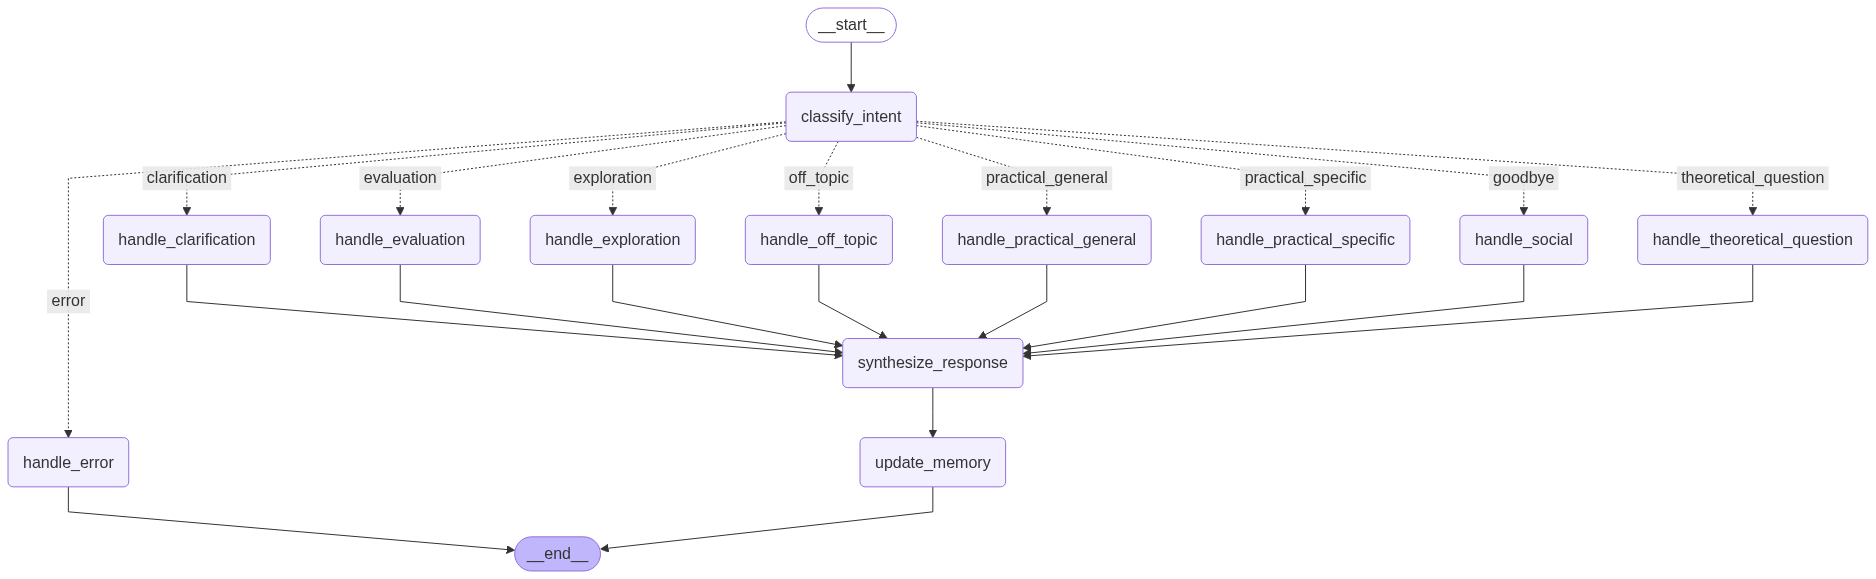
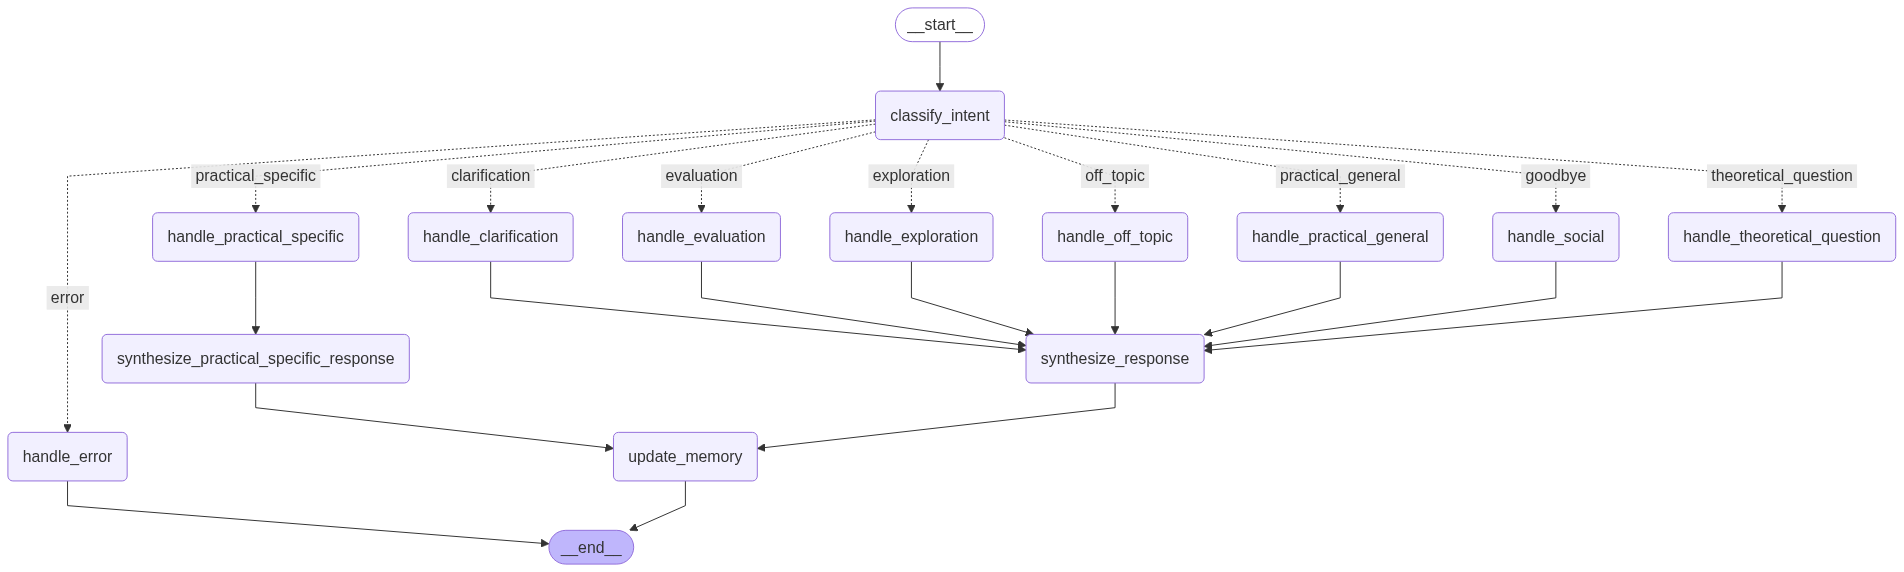
fine tuning

diff --git a/orchestrator/workflow.py b/orchestrator/workflow.py
@@ -71,6 +71,7 @@ class OrchestratorWorkflow:
         
         # Response processing nodes
         workflow.add_node("synthesize_response", self._synthesize_response)
+        workflow.add_node("synthesize_practical_specific_response", self._synthesize_practical_specific_response)
         workflow.add_node("update_memory", self._update_memory)
         workflow.add_node("handle_error", self._handle_error)
         
@@ -95,10 +96,10 @@ class OrchestratorWorkflow:
             }
         )
         
-        # All intent handlers flow to response synthesis
+        # Intent handlers flow to appropriate synthesis (practical_specific gets specialized treatment)
         workflow.add_edge("handle_theoretical_question", "synthesize_response")
         workflow.add_edge("handle_practical_general", "synthesize_response")
-        workflow.add_edge("handle_practical_specific", "synthesize_response")
+        workflow.add_edge("handle_practical_specific", "synthesize_practical_specific_response")
         workflow.add_edge("handle_clarification", "synthesize_response")
         workflow.add_edge("handle_exploration", "synthesize_response")
         workflow.add_edge("handle_evaluation", "synthesize_response")
@@ -107,6 +108,7 @@ class OrchestratorWorkflow:
         
         # Response synthesis flows to memory update and then end
         workflow.add_edge("synthesize_response", "update_memory")
+        workflow.add_edge("synthesize_practical_specific_response", "update_memory")
         workflow.add_edge("update_memory", END)
         workflow.add_edge("handle_error", END)
         
@@ -551,6 +553,123 @@ Sintetiza una respuesta educativa completa.""")
         
         return state
     
+    async def _synthesize_practical_specific_response(self, state: WorkflowState) -> WorkflowState:
+        """
+        Specialized synthesis for practical_specific responses.
+        
+        Creates pedagogical guidance based on gap analysis results, focusing on:
+        - Concrete next steps to unblock the student
+        - Framework-specific guidance (e.g., álgebra relacional vs SQL)
+        - Avoids giving direct answers to exercises
+        - Prioritizes most critical gaps for immediate action
+        """
+        try:
+            logger.info("Synthesizing practical-specific response with pedagogical focus")
+            
+            # Extract gap analysis results from handler response
+            gap_analysis_response = state.agent_responses.get('gap_analyzer', '')
+            
+            # Create specialized synthesis prompt for practical guidance
+            synthesis_prompt = ChatPromptTemplate.from_messages([
+                ("system", """Eres un tutor pedagógico especializado en guiar estudiantes a través de ejercicios prácticos sin dar las respuestas directas, sino orientando al estudiante a partir del análisis de gaps a llegar a la respuesta sin dársela directamente. Específicamente trabajamos sobre prácticas (problemas/ejercicios).
+
+TU MISIÓN:
+- Analizar los gaps identificados en el análisis del ejercicio
+- Proveer orientación pedagógica específica para destrabar al estudiante
+- NUNCA dar la respuesta del ejercicio ni mostrar cómo debería verse
+- Enfocar en el framework/paradigma específico de la práctica
+- Sugerir pasos concretos y específicos para que el estudiante avance por sí mismo
+                 
+ESTILO DE COMUNICACION: Conciso, sos un profesor orientador, usá la variante Argentina del español, no supongas que el estudiante es siempre de género masculino. No hables del "gap" como algo que el alumno deba conocer, mostrale el "gap" sin decirle "tenés un gap", "este es el gap más crítico".
+
+PRINCIPIOS PEDAGÓGICOS:
+1. AUTODESCUBRIMIENTO: Guiar para que el estudiante descubra por sí mismo
+2. FRAMEWORK ESPECÍFICO: Mantener la orientación en el marco conceptual de la práctica
+3. PASOS CONCRETOS: Dar acciones específicas, no conceptos vagos
+
+ESTRUCTURA DE RESPUESTA:
+1. Reconocimiento empático del problema
+2. Identificación del gap específico más crítico (a partir del análisis de gaps provisto)
+3. Orientación metodológica concreta en el framework de la práctica
+4. Pregunta reflexiva para guiar el autodescubrimiento
+5. Sugerir siguiente paso específico a realizar
+
+EJEMPLOS DE ORIENTACIÓN:
+- "En álgebra relacional, empezá por definir exactamente qué conjuntos necesitás..."
+- "Antes de escribir SQL, dibujá qué tablas participan y qué conexión querés lograr..."
+- "Para este tipo de JOIN, preguntate: ¿qué registros quiero que queden afuera?"
+
+EVITAR ABSOLUTAMENTE:
+- Mostrar código SQL o expresiones de álgebra relacional completas
+- Decir "la respuesta es..." o "deberías obtener..."
+- Conceptos generales sin aplicación específica al ejercicio"""),
+                ("human", """CONTEXTO DEL EJERCICIO:
+Estudiante: {student_message}
+Materia: {subject}
+Práctica: {practice} 
+Ejercicio: {exercise_context}
+
+ANÁLISIS DE GAPS IDENTIFICADOS:
+{gap_analysis}
+
+CONTEXTO EDUCATIVO DE LA PRÁCTICA:
+{practice_context}
+
+Crea una respuesta pedagógica que guíe al estudiante a destrabar su situación específica en este ejercicio, enfocándote en el framework conceptual de la práctica y sin dar la respuesta directa.""")
+            ])
+            
+            ctx = state.conversation_context
+            
+            # Extract exercise and practice context from handler responses or conversation context
+            exercise_context = self._extract_exercise_context_from_state(state)
+            practice_context = self._extract_practice_context_from_state(state)
+            
+            # If we have structured gap analysis results, extract them
+            gap_summary = gap_analysis_response
+            if not gap_summary:
+                gap_summary = "No se pudo completar el análisis de gaps. Procederé con orientación general."
+            
+            formatted_prompt = synthesis_prompt.format_messages(
+                student_message=ctx.current_message,
+                subject=ctx.memory.educational_context.current_subject or "No especificada",
+                practice=f"Práctica {ctx.memory.educational_context.current_practice}" if ctx.memory.educational_context.current_practice else "Práctica no identificada",
+                exercise_context=exercise_context,
+                gap_analysis=gap_summary,
+                practice_context=practice_context
+            )
+            
+            # Get specialized pedagogical response
+            response = await self.llm.ainvoke(formatted_prompt)
+            pedagogical_content = response.content
+            
+            # Create synthesis result with pedagogical focus
+            synthesis = ResponseSynthesis(
+                primary_content=pedagogical_content,
+                supporting_information=[
+                    "Recordá que el objetivo es que vos mismo llegues a la respuesta",
+                    "Si necesitás repasar conceptos, revisá el material teórico de la práctica"
+                ],
+                next_steps=[
+                    "Aplicá la orientación metodológica sugerida",
+                    "Reflexioná sobre las preguntas planteadas",
+                    "Intentá el ejercicio paso a paso",
+                    "Si seguís trabado, probá explicar tu razonamiento en voz alta"
+                ],
+                educational_guidance="Esta orientación está diseñada para ayudarte a desarrollar autonomía en la resolución de problemas. El proceso de descubrimiento es tan importante como la respuesta final.",
+                confidence_level=min(state.intent_result.confidence + 0.2, 1.0)  # Higher confidence for specialized synthesis
+            )
+            
+            state.response_synthesis = synthesis
+            logger.info("Practical-specific pedagogical synthesis completed")
+            
+        except Exception as e:
+            logger.error(f"Error in practical-specific synthesis: {e}")
+            # Fallback to general synthesis
+            logger.info("Falling back to general synthesis due to error")
+            return await self._synthesize_response(state)
+        
+        return state
+    
     async def _update_memory(self, state: WorkflowState) -> WorkflowState:
         """
         Node 5: Update conversation memory and context.
@@ -636,6 +755,80 @@ Sintetiza una respuesta educativa completa.""")
         
         state.final_response = error_response
         return state
+    
+    def _extract_exercise_context_from_state(self, state: WorkflowState) -> str:
+        """
+        Extract exercise context information from state for specialized synthesis.
+        
+        Returns:
+            String with exercise context information
+        """
+        try:
+            ctx = state.conversation_context
+            
+            # Try to get context from gap analyzer response
+            gap_response = state.agent_responses.get('gap_analyzer', '')
+            if 'Ejercicio:' in gap_response:
+                # Extract exercise info from gap analyzer response
+                import re
+                exercise_match = re.search(r'Ejercicio:\s*([^\n]+)', gap_response)
+                if exercise_match:
+                    return exercise_match.group(1).strip()
+            
+            # Fall back to extracting from conversation context
+            practice_num = ctx.memory.educational_context.current_practice
+            exercise_ref = ctx.memory.educational_context.current_exercise
+            
+            if practice_num and exercise_ref:
+                return f"Práctica {practice_num}, Ejercicio {exercise_ref}"
+            elif practice_num:
+                return f"Ejercicio de la Práctica {practice_num}"
+            else:
+                return "Ejercicio específico mencionado en el mensaje"
+                
+        except Exception as e:
+            logger.warning(f"Error extracting exercise context: {e}")
+            return "Ejercicio práctico específico"
+    
+    def _extract_practice_context_from_state(self, state: WorkflowState) -> str:
+        """
+        Extract practice framework context for specialized synthesis.
+        
+        Returns:
+            String with practice framework information
+        """
+        try:
+            ctx = state.conversation_context
+            subject = ctx.memory.educational_context.current_subject
+            practice_num = ctx.memory.educational_context.current_practice
+            
+            # Try to get context from gap analyzer response
+            gap_response = state.agent_responses.get('gap_analyzer', '')
+            if 'Práctica:' in gap_response:
+                # Extract practice info from gap analyzer response
+                import re
+                practice_match = re.search(r'Práctica:[^\n]*\n([^\n]+)', gap_response)
+                if practice_match:
+                    return practice_match.group(1).strip()
+            
+            # Generate framework context based on subject and practice
+            if subject and 'base' in subject.lower() and 'datos' in subject.lower():
+                if practice_num:
+                    if practice_num <= 2:
+                        return "Marco conceptual: Álgebra Relacional - operaciones entre conjuntos de tuplas, proyecciones, selecciones, productos cartesianos y joins"
+                    elif practice_num <= 4:
+                        return "Marco conceptual: SQL - lenguaje declarativo de consultas, estructura de SELECT, FROM, WHERE, JOIN"
+                    else:
+                        return "Marco conceptual: Bases de Datos Relacionales - diseño, normalización, integridad referencial"
+                else:
+                    return "Marco conceptual: Bases de Datos Relacionales - modelo relacional, álgebra relacional, SQL"
+            
+            # Generic fallback
+            return f"Marco conceptual de {subject or 'la materia'}" + (f" - Práctica {practice_num}" if practice_num else "")
+            
+        except Exception as e:
+            logger.warning(f"Error extracting practice context: {e}")
+            return "Marco conceptual de la práctica actual"
     
     # Helper methods for educational parameter extraction and context building
     
